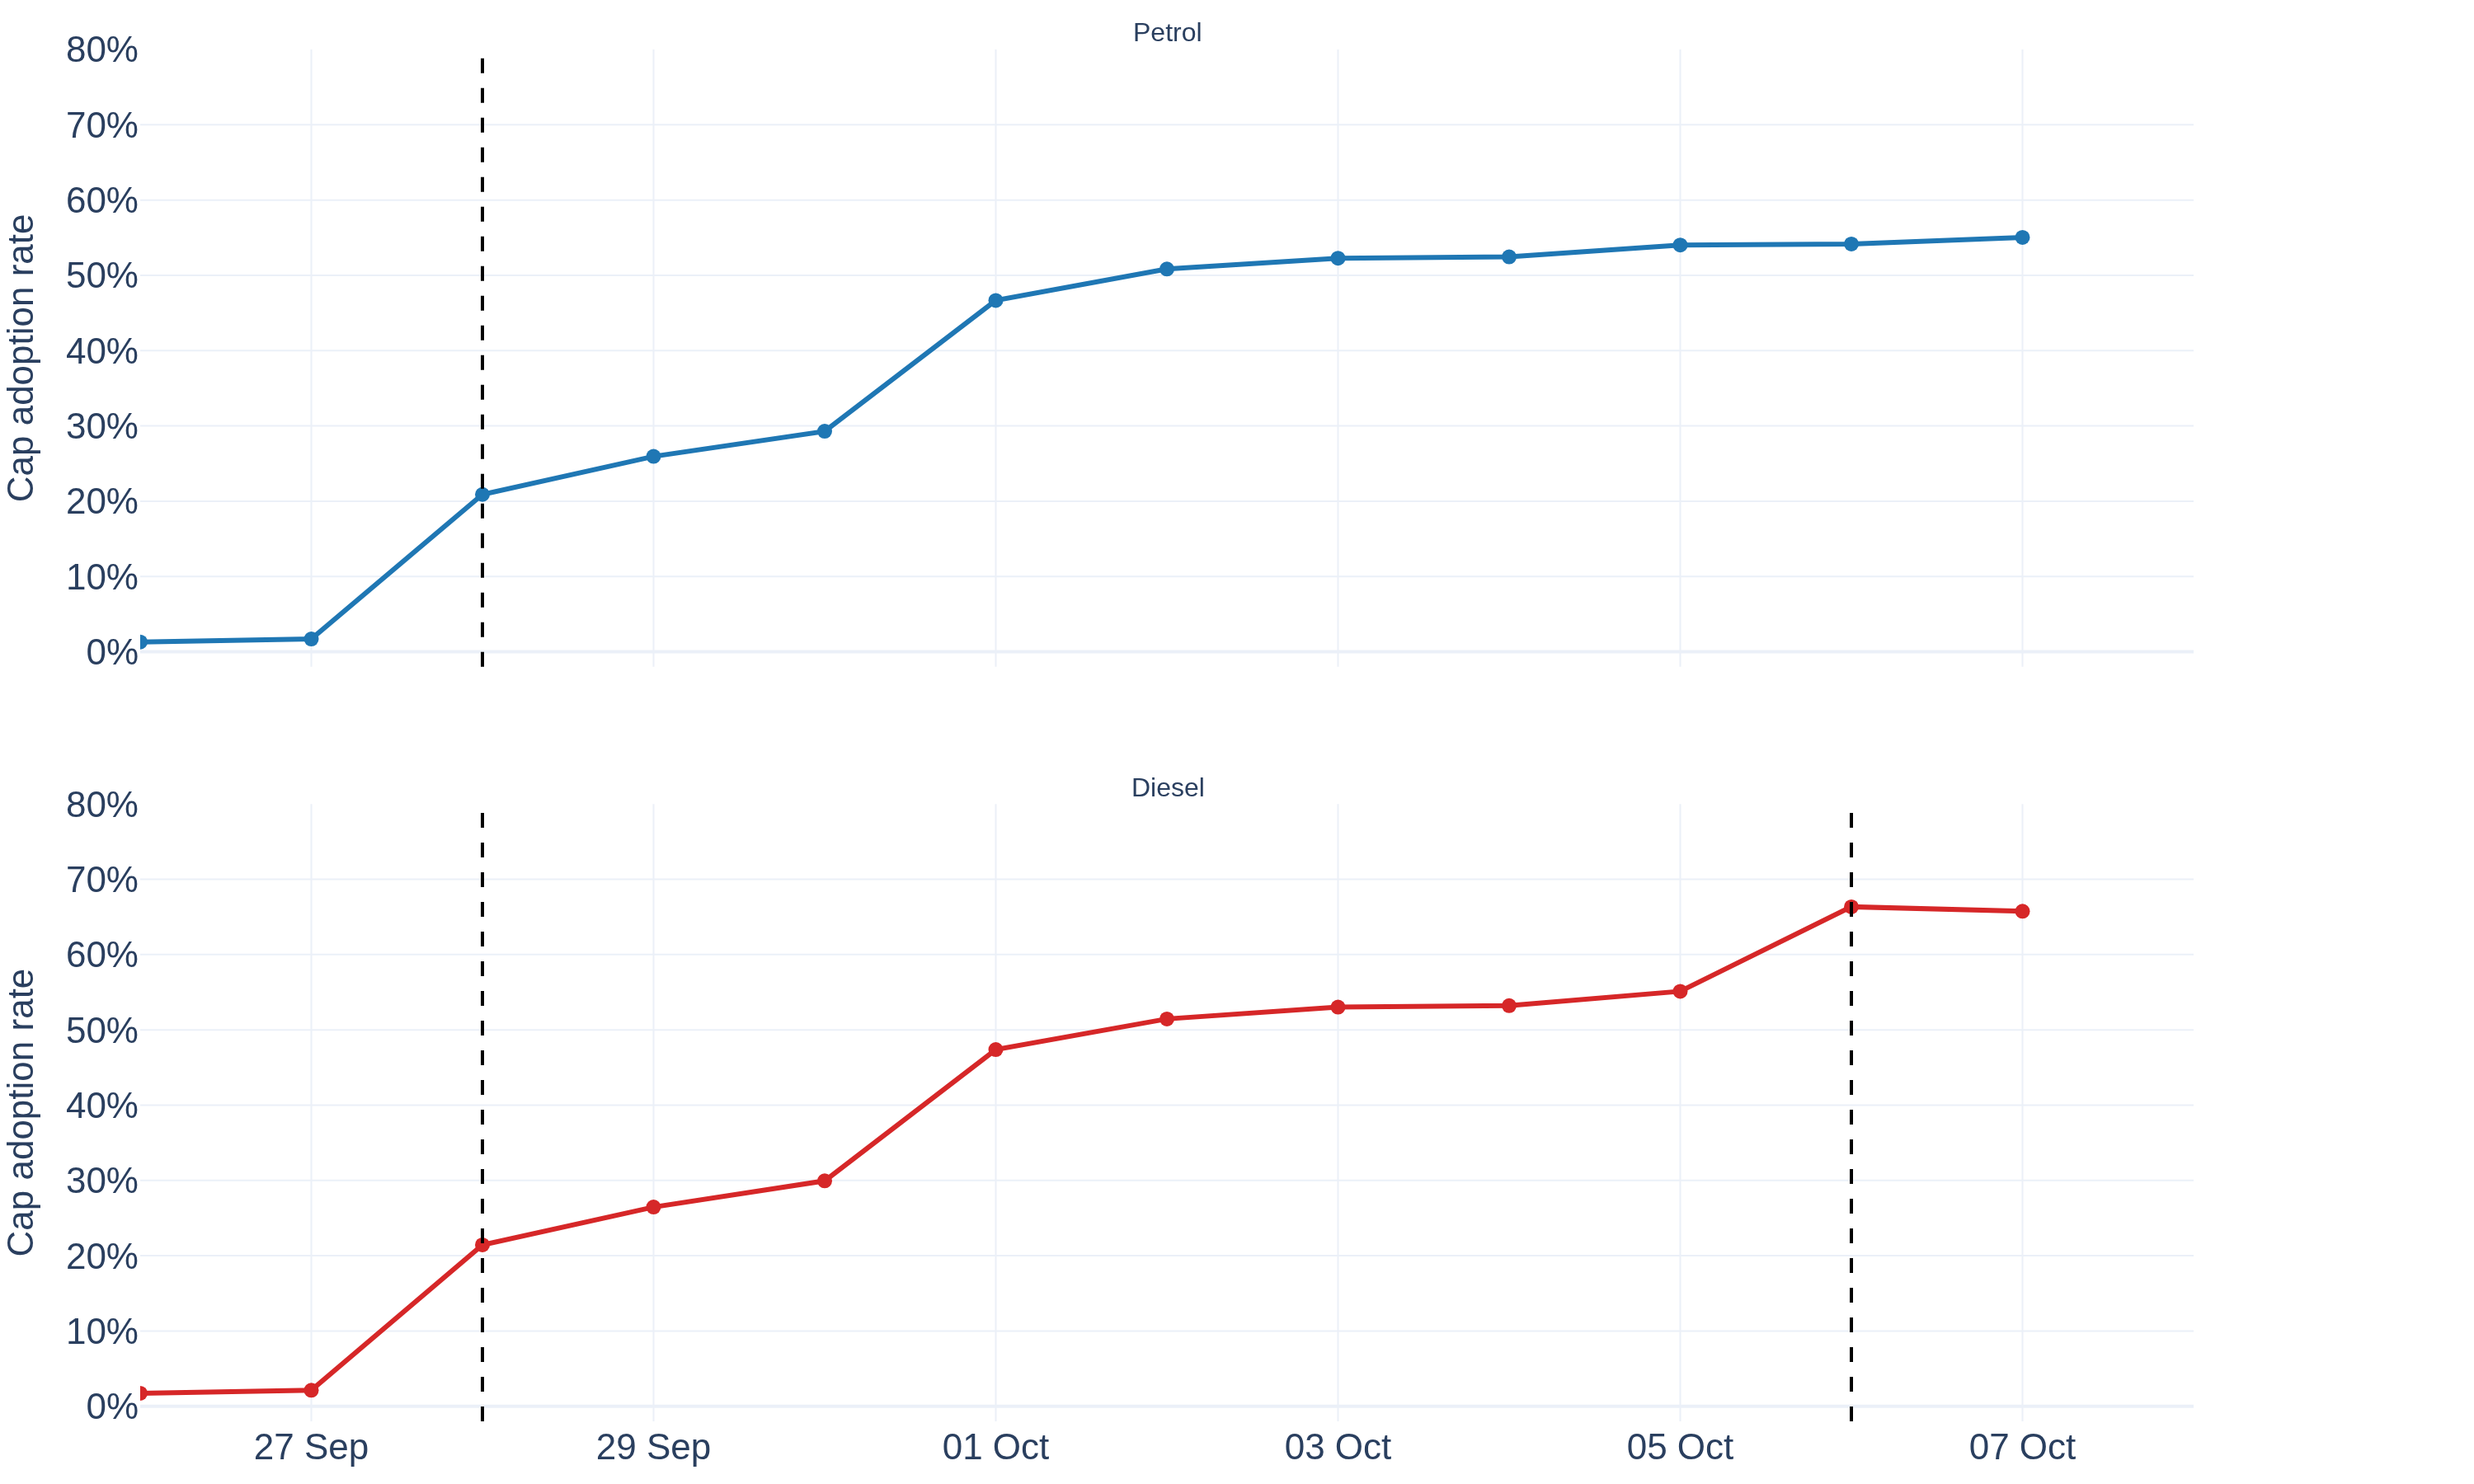
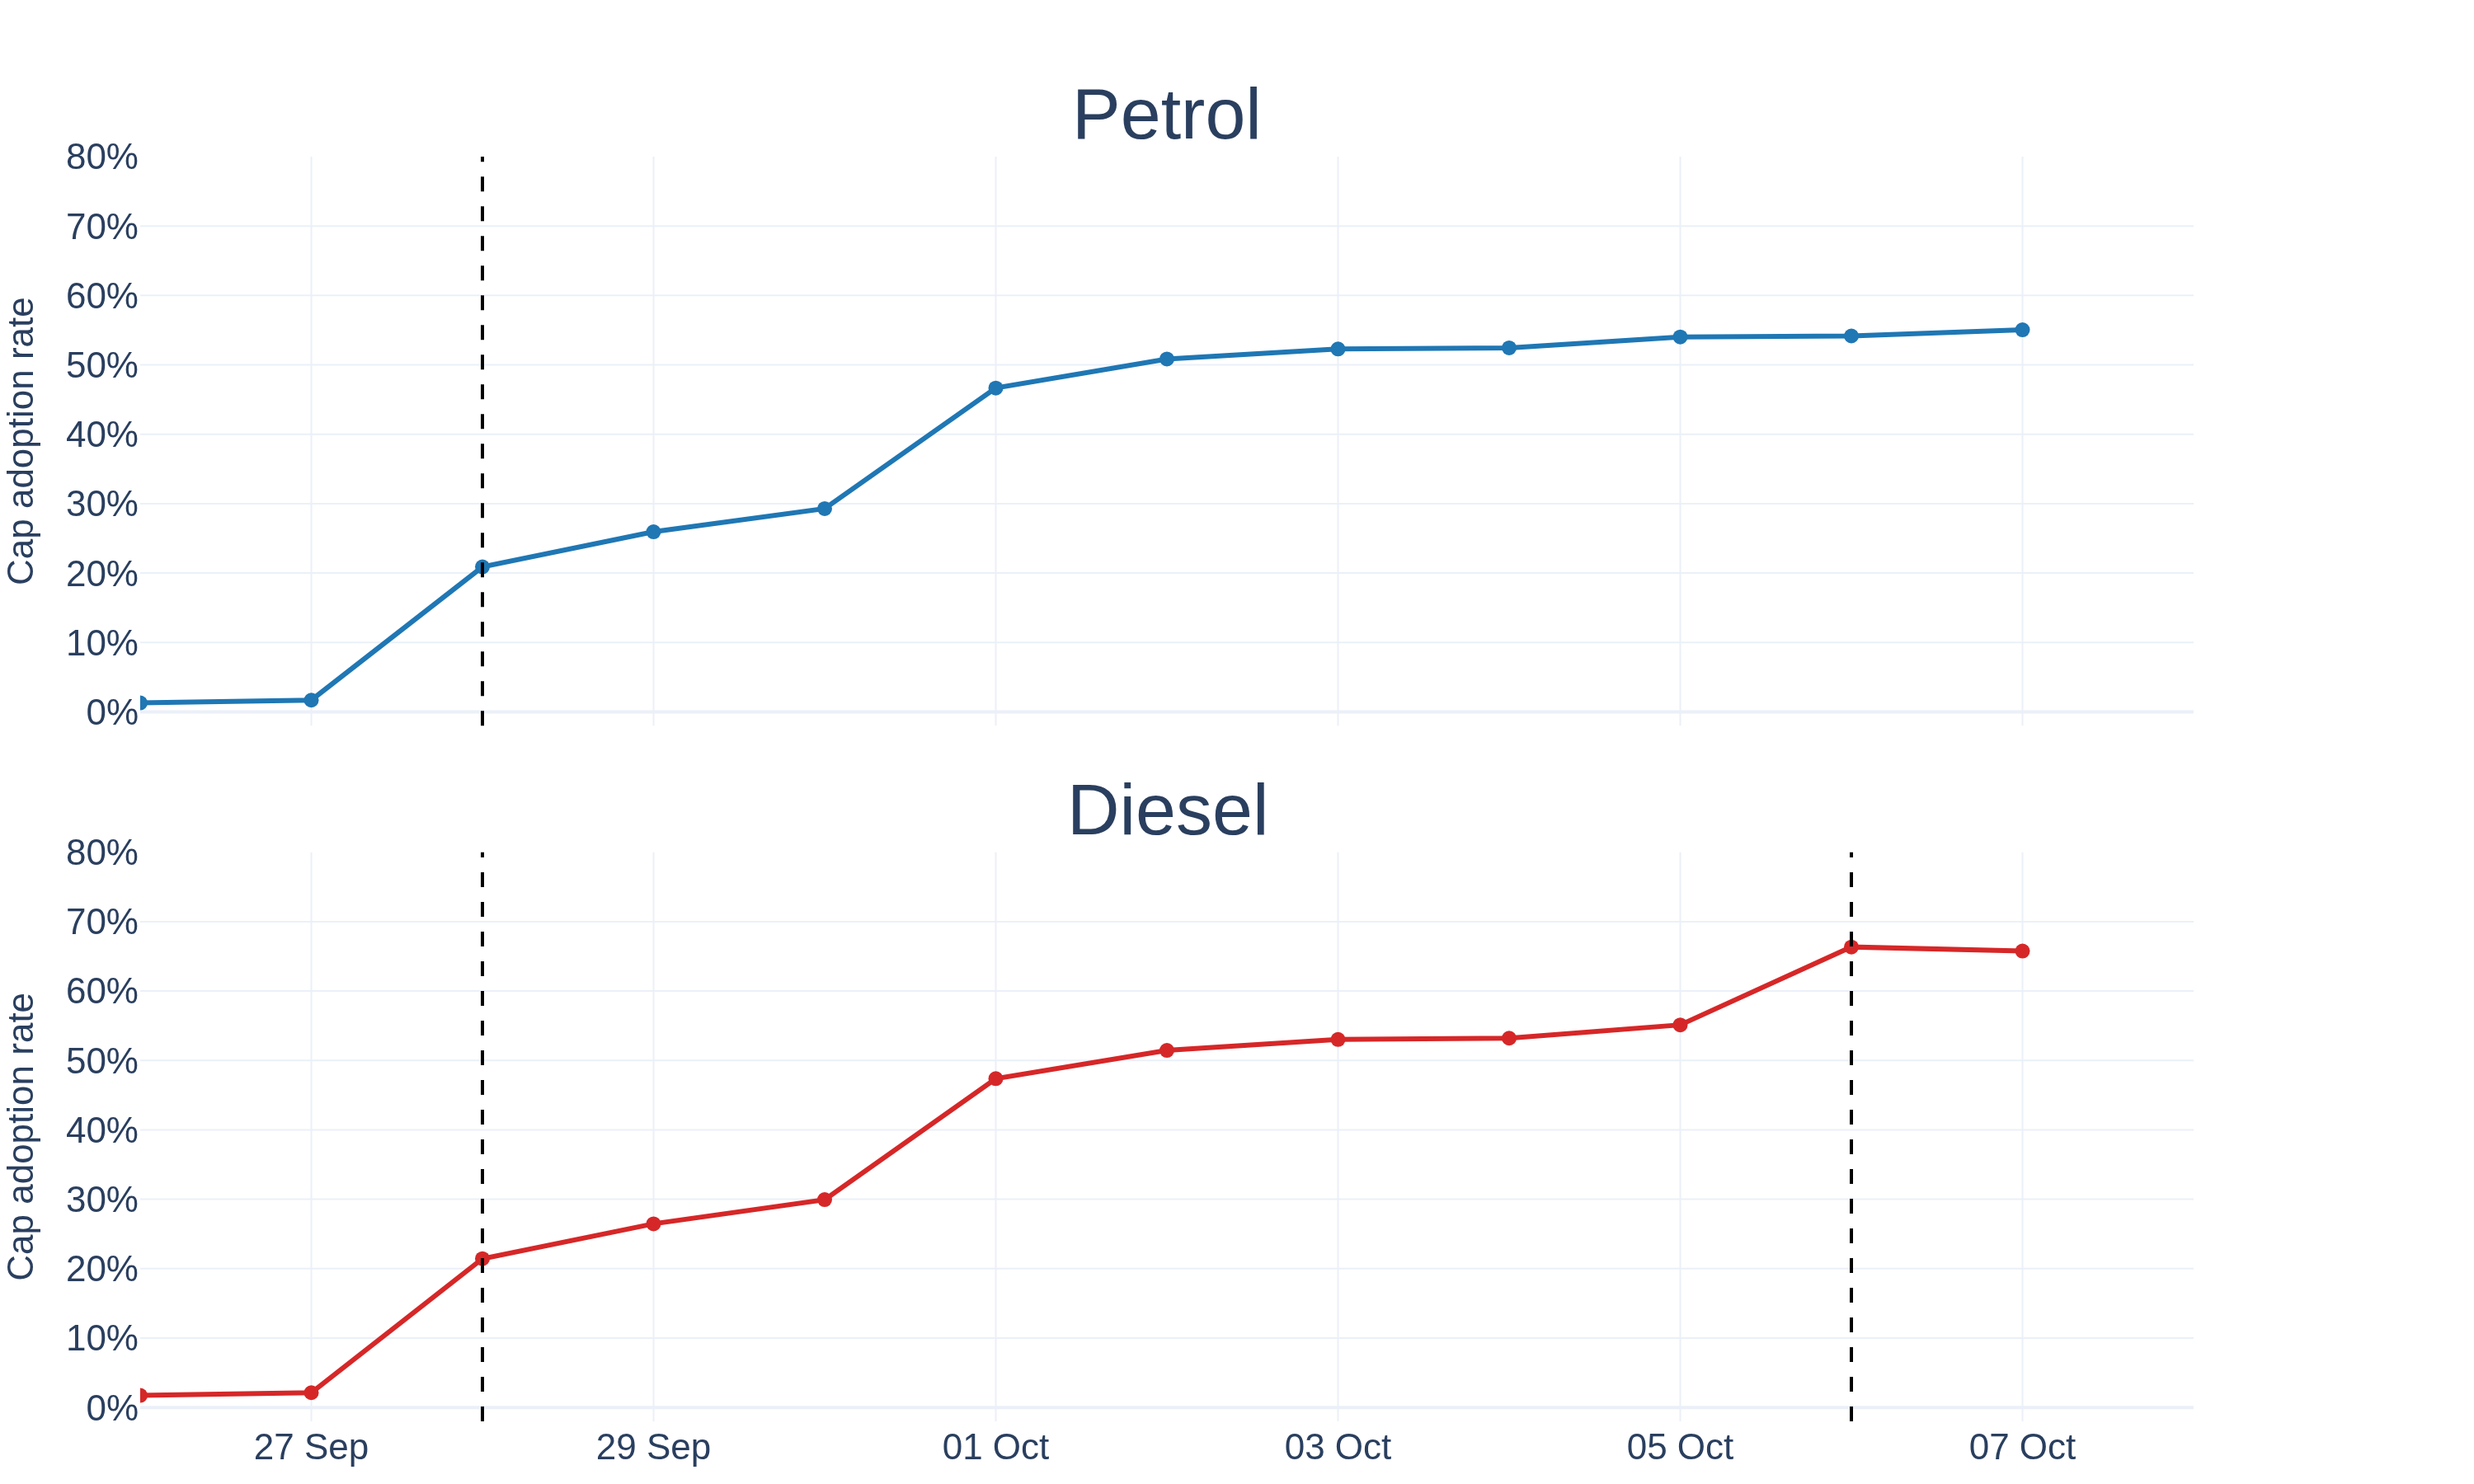
Report figures: fig 3 bigger panel titles; new brand-level figs 8 and 9
Fig 3: panel subtitles (Petrol/Diesel) doubled to 2x base font; top
margin raised so the larger titles are not cut.

New numbered brand charts (output/figures/):
- 8_benzina_mean_price_bandiera: from brand_daily_prices.csv, cut from
  1 Sep, Aggregate dotted line added, Pompe Bianche -> Independent,
  same style as fig 1 (no title, base font 22, thick lines, EUR/l
  y-label, 3-day ticks, tight y range incl. the 2.00 cap hline+label).
- 9_gasolio_mean_price_bandiera: same treatment as fig 2 for gasolio,
  plus both cap hlines (2.20 from 28 Sep, 2.261 from 6 Oct; labels
  above the lines) and dashed vlines at 28 Sep and 6 Oct.

diff --git a/adoption/make_report_figs.py b/adoption/make_report_figs.py
@@ -186,10 +186,94 @@ def fig3_adoption_share() -> Path:
     fig.update_yaxes(title=dict(text="Cap adoption rate", font=dict(size=FONT)),
                      row=2, col=1)
     fig.update_layout(
-        font=dict(size=FONT), margin=dict(l=10, r=170, t=30, b=10),
+        font=dict(size=FONT), margin=dict(l=10, r=170, t=95, b=10),
         template="plotly_white", width=1500, height=900, showlegend=False,
     )
+    for ann in fig.layout.annotations:
+        if ann.text in ("Petrol", "Diesel"):
+            ann.font = dict(size=FONT * 2)
     out = FIG / "3_adoption_share_daily.png"
+    fig.write_image(out, scale=2)
+    return out
+
+
+BRAND_ORDER = ("Agip Eni", "Api-Ip", "Q8", "Esso", "Tamoil", "Shell", "Pompe Bianche")
+BRAND_COLORS = {
+    "Agip Eni": "#D62728", "Api-Ip": "#FF7F0E", "Q8": "#9467BD",
+    "Esso": "#1F77B4", "Tamoil": "#8C564B", "Shell": "#00BCD4",
+    "Pompe Bianche": "#7F7F7F",
+}
+BRAND_EN = {"Pompe Bianche": "Independent"}
+
+
+def brand_price_chart(fuel: str, show_excise_vline: bool, stem: str) -> Path:
+    """Numbered variant of the brand chart: from 1 Sep, aggregate line added,
+    Pompe Bianche renamed Independent, style of figs 1/2 (no title, FONT,
+    thick lines, 3-day ticks, tight y range incl. cap lines)."""
+    daily = pl.read_csv(config.TABLES_DIR / "brand_daily_prices.csv",
+                        try_parse_dates=True)
+    d = daily.filter(pl.col("fuel") == fuel).filter(pl.col("date") >= CUT)
+
+    fig = go.Figure()
+    agg = d.group_by("date").agg(p=pl.col("mean_price").mean()).sort("date")
+    fig.add_trace(
+        go.Scatter(x=agg["date"], y=agg["p"], mode="lines", name=AGG_EN,
+                   line=dict(color=AGG_COLOR, width=LINE_W + 1, dash="dot"))
+    )
+    for brand in BRAND_ORDER:
+        s = d.filter(pl.col("canonical_name") == brand).sort("date")
+        if not s.height:
+            continue
+        fig.add_trace(
+            go.Scatter(x=s["date"], y=s["mean_price"], mode="lines",
+                       name=BRAND_EN.get(brand, brand),
+                       line=dict(color=BRAND_COLORS[brand], width=LINE_W))
+        )
+
+    threshold = config.THRESHOLDS[fuel]
+    caps = [threshold]
+    fig.add_hline(
+        y=threshold, line_dash="dot", line_color="firebrick",
+        annotation_text=f"cap {threshold:.2f} EUR/l from 28 Sep",
+        annotation_position="top left",
+        annotation_font=dict(size=FONT, color="firebrick"),
+    )
+    if fuel == "Gasolio":
+        fig.add_hline(
+            y=config.GASOLIO_CAP_AFTER, line_dash="dot", line_color="firebrick",
+            annotation_text=f"cap {config.GASOLIO_CAP_AFTER:.3f} EUR/l from 6 Oct",
+            annotation_position="top left",
+            annotation_font=dict(size=FONT, color="firebrick"),
+        )
+        caps.append(config.GASOLIO_CAP_AFTER)
+    fig.add_vline(x=CAP_DATE.isoformat(), line_dash="dash", line_color="black")
+    if show_excise_vline:
+        fig.add_vline(x=EXCISE_STEP.isoformat(), line_dash="dash", line_color="black")
+
+    y_min = min(d["mean_price"].min(), *caps)
+    y_max = max(d["mean_price"].max(), *caps)
+    pad = (y_max - y_min) * 0.06
+    pad_hi = (y_max - y_min) * 0.12
+    pad_lo = pad * 2.5
+    fig.update_layout(
+        font=dict(size=FONT),
+        margin=dict(l=10, r=30, t=15, b=10),
+        template="plotly_white",
+        hovermode="x unified",
+        width=1400,
+        height=620,
+        showlegend=True,
+        legend=dict(orientation="h", yanchor="bottom", y=1.0, xanchor="left", x=0),
+    )
+    fig.update_xaxes(
+        tickformat="%d %b", tickangle=0, dtick=3 * 86400000,
+        range=[CUT, d["date"].max() + dt.timedelta(days=1)],
+    )
+    fig.update_yaxes(
+        tickformat=".2f", range=[y_min - pad_lo, y_max + pad_hi],
+        title=dict(text="EUR/l", font=dict(size=FONT)),
+    )
+    out = FIG / f"{stem}.png"
     fig.write_image(out, scale=2)
     return out
 
@@ -207,6 +291,10 @@ def main() -> None:
         group_price_chart_en("Gasolio", show_excise_line=True,
                              stem="2_gasolio_mean_price_brands"),
         fig3_adoption_share(),
+        brand_price_chart("Benzina", show_excise_vline=False,
+                          stem="8_benzina_mean_price_bandiera"),
+        brand_price_chart("Gasolio", show_excise_vline=True,
+                          stem="9_gasolio_mean_price_bandiera"),
         copy_fig("map_adoption_share.png", "4_map_adoption_share"),
         copy_fig("map_pb_adoption_share.png", "5_map_pb_adoption_share"),
         copy_fig("amap_price_post7_ben.png", "6_map_price_oct5_petrol"),
